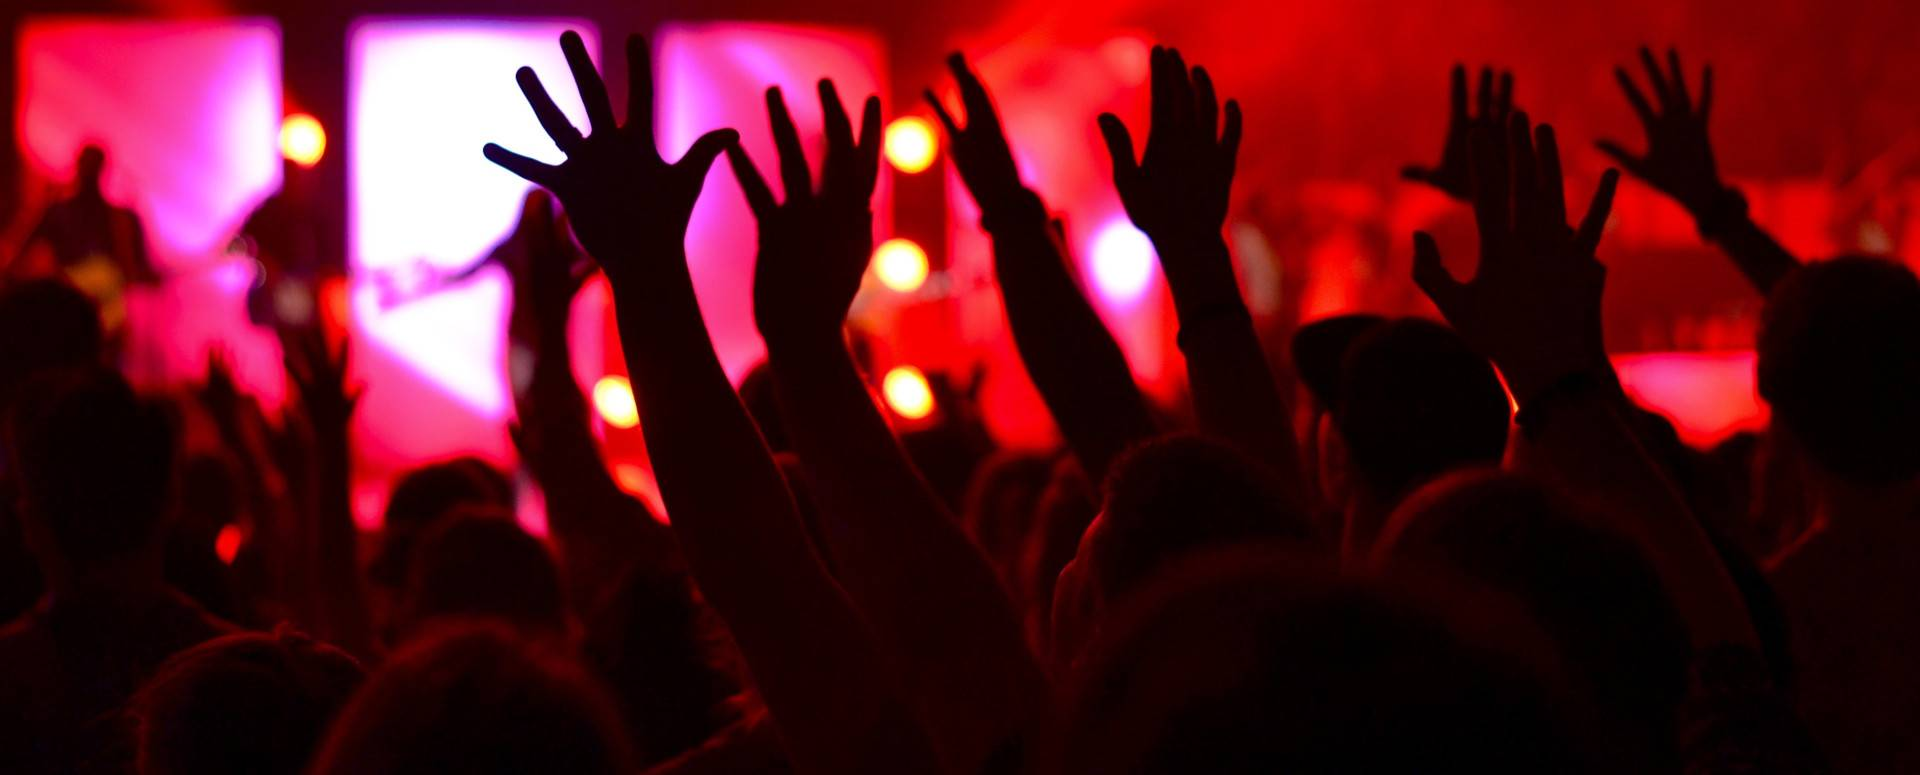
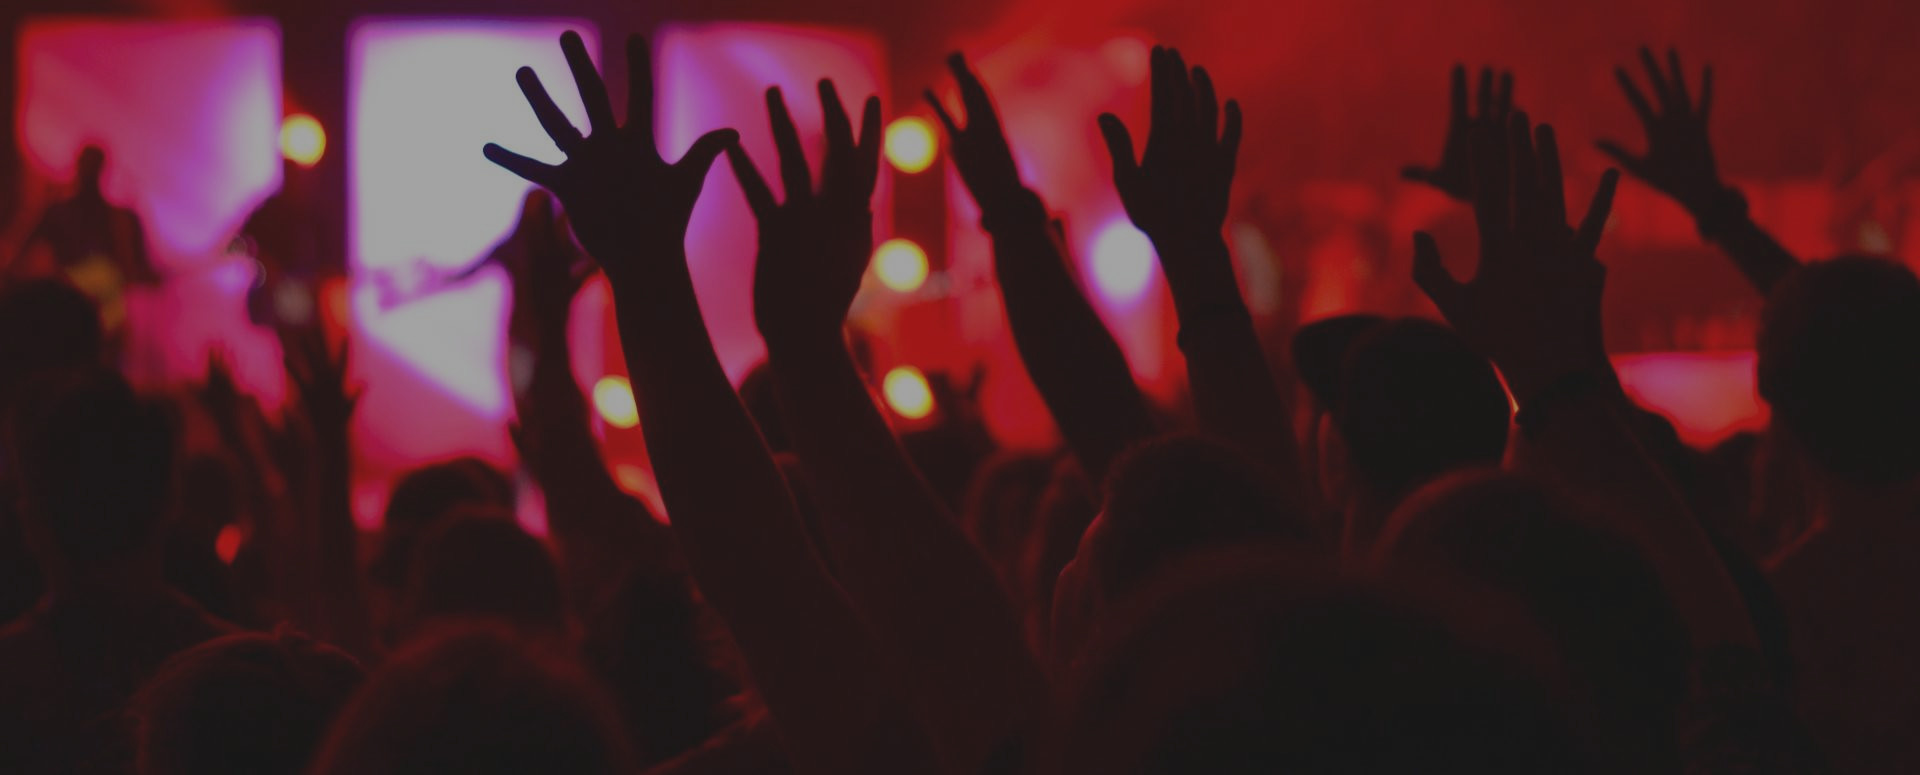
updated with darker background img, added padding to navbar and justified right

diff --git a/index.html b/index.html
@@ -49,7 +49,7 @@
         <div class="container">
             <div class="row">
 
-                <div class="col-md-6" style="padding-top: 80px;">
+                <div class="col-md-6" style="padding-top: 80px; color:white">
                     <h1>Welcome to our Church!</h1>
                     <p>We are excited you are here; our goal is to unite you to God and to find your purpose. With us,
                         you

diff --git a/custom.css b/custom.css
@@ -1,3 +1,12 @@
 .logo {
     height: 25px;
 }
+
+@media (min-width: 768px) {
+    .navbar-expand-md .navbar-collapse {
+        display: flex !important;
+        flex-basis: auto;
+        justify-content: flex-end;
+        padding-right: 50px;
+    }
+}
